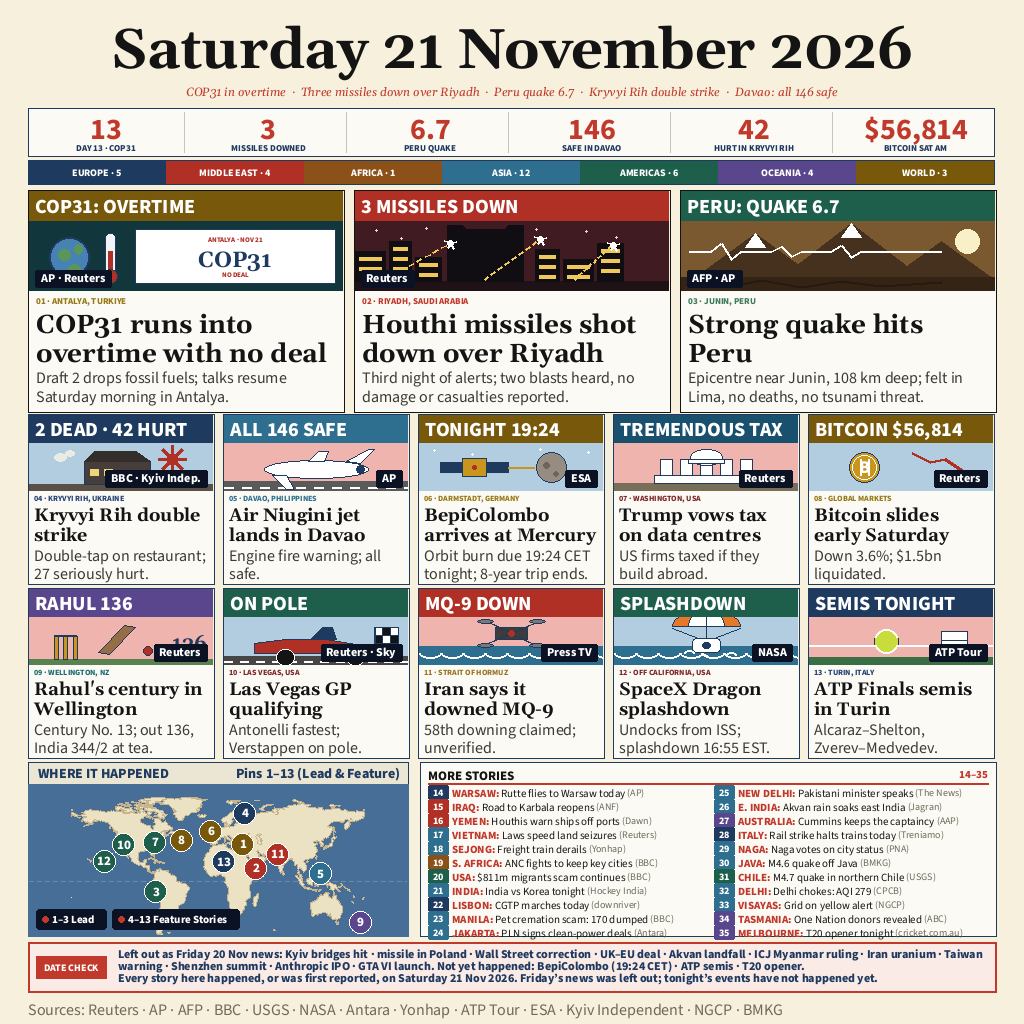
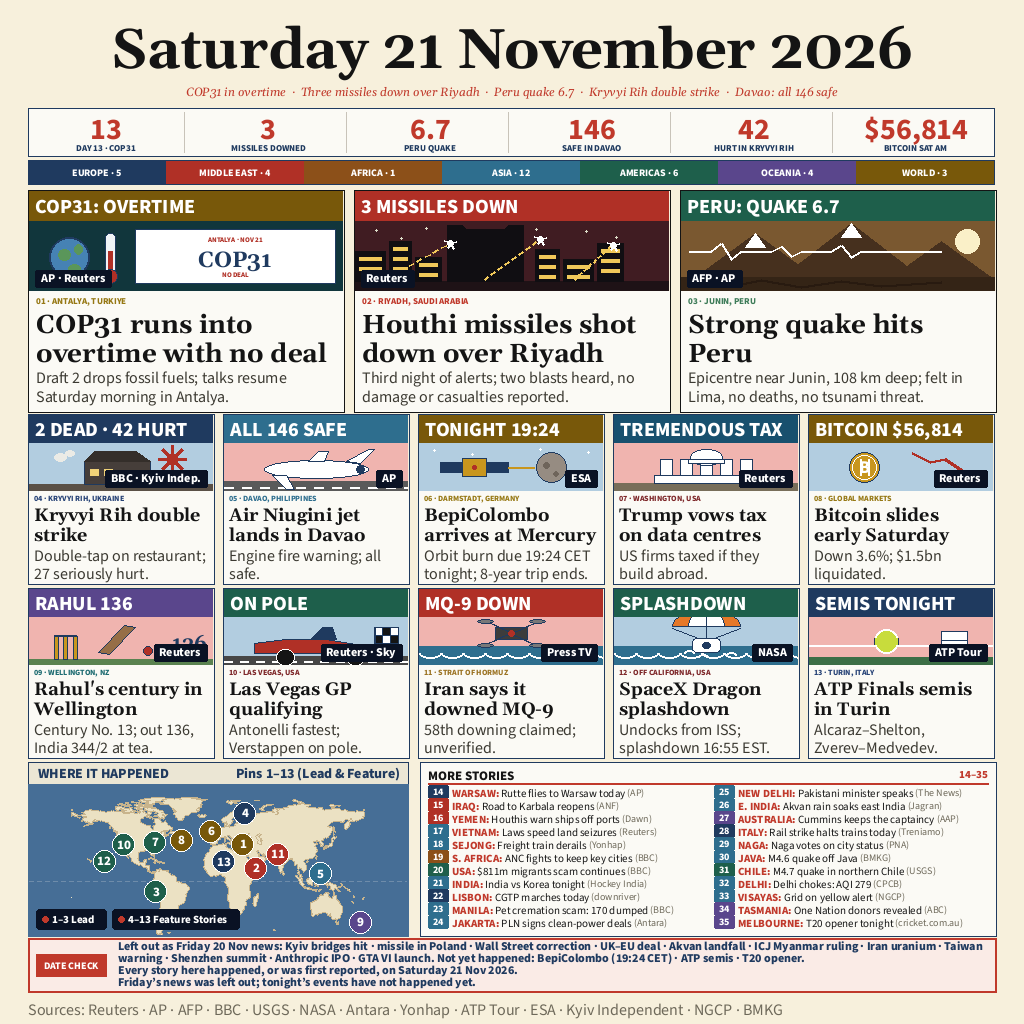
MORE STORIES nembus + DATE CHECK brief 2 baris (Kevin 22 Nov 05:12): pitch brief 14->13 + chip_h 14->13 (baris terakhir chip 915..928, gap 8px ke border y2 936); brief DATE CHECK dibagi per kalimat (kata sama, 399,7/358,1px), DC_BOX y1 942->938 (tinta 4 baris 48px, gap 2px ke atas, y2 + Sources teta

Changed region(s): [[0.0312, 0.7812, 0.9688, 0.9688]]

diff --git a/render_v2.py b/render_v2.py
@@ -64,6 +64,15 @@ Perubahan vs V1 (hanya 5 CHANGES FOR IMPROVE dari loss_report_a1.md):
 +   teks tebal navy 12pt. Kotak + Sources TIDAK digeser (tinta 3 baris
 +   terukur 36px, muat di kotak 50px). Isi daftar + brief tidak
 +   menambah fakta baru.
++14. Revisi Kevin 22 Nov 05:12 WIB: (1) MORE STORIES "nembus" — baris
++   terakhir (#24/#35) tintanya menyentuh border bawah kotak (chip
++   bawah 939 > y2 936): pitch brief 14->13 + chip_h 14->13 (chip
++   tetap bersentuhan vertikal tanpa overlap); baris terakhir chip
++   915..928, gap 8px ke border; isi/jumlah brief TIDAK berubah.
++   (2) DATE CHECK brief jadi 2 baris (dibagi per kalimat, kata-kata
++   TETAP SAMA, terukur 399,7/358,1px < 870px): tinta 4 baris 48px,
++   DC_BOX y1 942->938 (tinggi 54px, gap 2px ke kotak di atas; y2 +
++   Sources TETAP).
 
 YANG TIDAK BERUBAH: kerangka masthead + deck + strip + 3 hero + 10 kartu
 + peta + brief + DATE CHECK; kemurnian tanggal 35/35 Sabtu + angka
@@ -355,9 +364,10 @@ DATECHECK_LIST = ("Left out as Friday 20 Nov news: Kyiv bridges hit \u00b7 "
                   "Not yet happened: BepiColombo (19:24 CET) \u00b7 ATP semis "
                   "\u00b7 T20 opener.")
 
-DC_BRIEF = ("Every story here happened, or was first reported, on "
-            "Saturday 21 Nov 2026. Friday\u2019s news was left out; "
-            "tonight\u2019s events have not happened yet.")
+DC_BRIEF_LINES = ("Every story here happened, or was first reported, on "
+                  "Saturday 21 Nov 2026.",
+                  "Friday\u2019s news was left out; tonight\u2019s events "
+                  "have not happened yet.")
 
 SOURCES = ("Sources: Reuters \u00b7 AP \u00b7 AFP \u00b7 BBC \u00b7 USGS \u00b7 "
            "NASA \u00b7 Antara \u00b7 Yonhap \u00b7 ATP Tour \u00b7 ESA \u00b7 "
@@ -877,7 +887,7 @@ CARD_X = [28, 223, 418, 613, 808]
 CARD_W = 186
 MAP_BOX = (28, 762, 408, 936)
 BRIEFS_BOX = (420, 762, 996, 936)
-DC_BOX = (28, 942, 996, 992)
+DC_BOX = (28, 938, 996, 992)
 SRC_Y = 998
 MAP_HEADER_H = 22
 
@@ -1200,8 +1210,8 @@ def draw_briefs(d):
     f_txt = F(SS400, 11)
     f_src = F(SS400, 10)
     f_chip = F(SS800, 10)
-    chip_h = 14
-    pitch = 14
+    chip_h = 13
+    pitch = 13
     per = [11, 11]
     idx = 0
     col_bottoms = []
@@ -1246,10 +1256,13 @@ def draw_briefs(d):
 def draw_footer(d):
     """DATE CHECK GAYA v20 (Keputusan Kevin 22 Nov 05:06 WIB, opsi A):
     chip merah "DATE CHECK" di kiri + kolom kanan berisi daftar
-    (2 baris) + brief ringkasan (1 baris), teks tebal navy 12pt.
+    (2 baris) + brief ringkasan (2 baris), teks tebal navy 12pt.
     "Kayak v20" MENANG atas lantai 16pt untuk kotak ini (v20 sendiri
-    pakai 12pt). Kotak + Sources TIDAK digeser: tinta 3 baris terukur
-    36px, muat di kotak 50px. TANPA catatan produksi/draf.
+    pakai 12pt). REV (Kevin 22 Nov 05:12 WIB, "brief nya buat 2 baris
+    aja"): brief dibagi per kalimat (kata-kata TETAP SAMA); tinta
+    4 baris terukur 48px, kotak membesar ke ATAS y1 942->938 (tinggi
+    54px; gap 2px ke kotak peta/brief di atas, y2 + Sources TETAP).
+    TANPA catatan produksi/draf.
     REV (Kevin 22 Nov 05:09 WIB, "Sources ga kebaca"): teks Sources
     9pt -> 16pt (lantai font), satu baris, daftar sumber LENGKAP
     (terukur 754,6px < 968px tersedia); warna tetap GREY; SRC_Y tetap
@@ -1268,16 +1281,19 @@ def draw_footer(d):
     d.rectangle([cx0, cy0, cx0 + chip_w, cy0 + chip_h], fill=RED)
     tt.text(d, (cx0 + cx0 + chip_w) // 2, (cy0 + cy0 + chip_h) // 2,
             "DATE CHECK", f_chip, WHITE, anchor="mm")
-    # --- kolom kanan: daftar (2 baris) + brief (1 baris), navy tebal 12pt ---
+    # --- kolom kanan: daftar (2 baris) + brief (2 baris), navy tebal 12pt ---
     tx0 = cx0 + chip_w + 12
     max_w = x2 - 8 - tx0
     f_t = F(SS800, 12)
     list_lines = wrap(d, DATECHECK_LIST, f_t, max_w)
-    brief_lines = wrap(d, DC_BRIEF, f_t, max_w)
+    brief_lines = list(DC_BRIEF_LINES)
     assert len(list_lines) == 2, (
         f"DATE CHECK daftar {len(list_lines)} baris: {list_lines}")
-    assert len(brief_lines) == 1, (
+    assert len(brief_lines) == 2, (
         f"DATE CHECK brief {len(brief_lines)} baris: {brief_lines}")
+    for bl in brief_lines:
+        assert d.textlength(bl, font=f_t) <= max_w, (
+            f"DATE CHECK brief terlalu lebar: {bl}")
     lines = list_lines + brief_lines
     lh = 12
     bb = d.textbbox((tx0, 0), lines[0], font=f_t, anchor="la")
